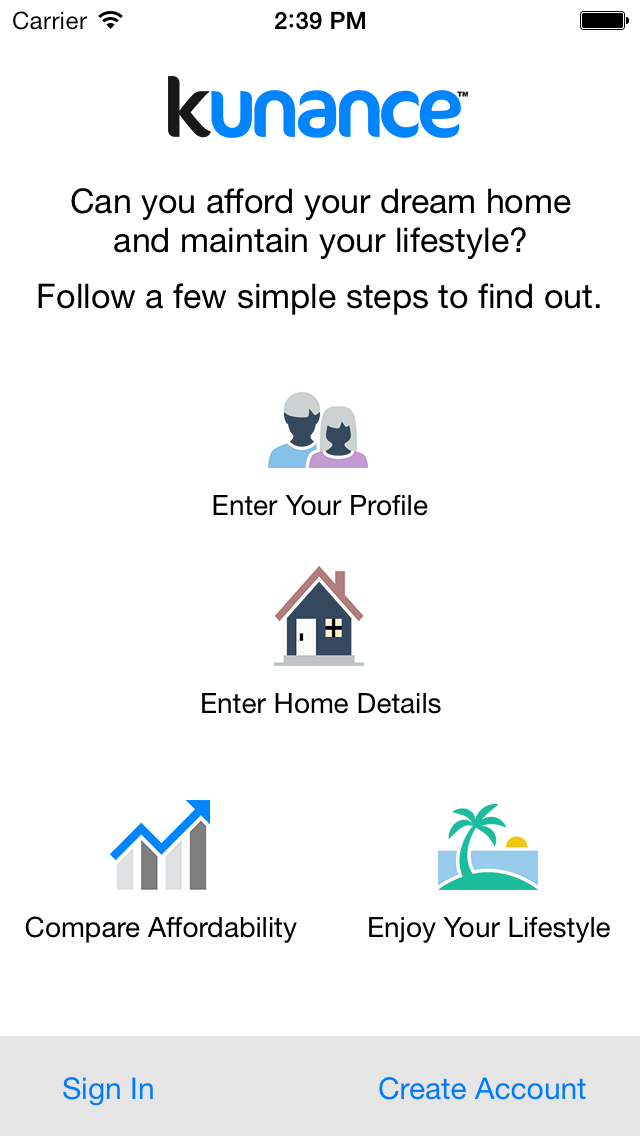
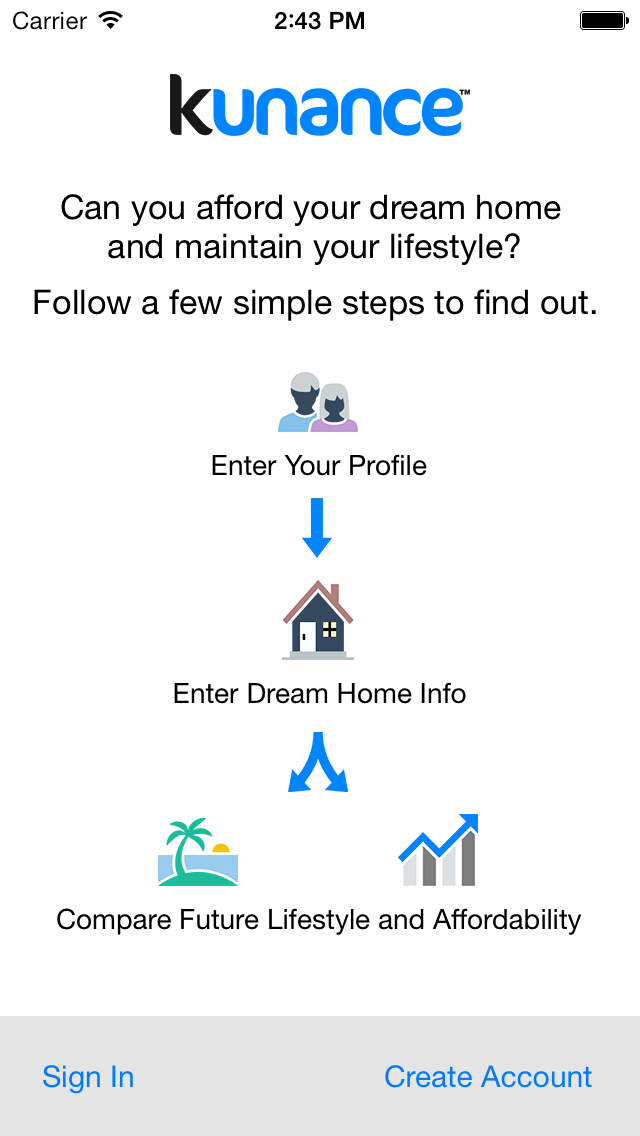
updated intro screen

diff --git a/kcat/kcat/AppDelegate.m b/kcat/kcat/AppDelegate.m
@@ -18,7 +18,7 @@
     self.window.backgroundColor = [UIColor whiteColor];
     UIViewController* controller = [[UIViewController alloc] init];
 
-    UIView *firstViewUIView = [[[NSBundle mainBundle] loadNibNamed:@"dashboard-noinfo"
+    UIView *firstViewUIView = [[[NSBundle mainBundle] loadNibNamed:@"kcatintro"
                                                              owner:self options:nil] objectAtIndex:0];
     [controller.view addSubview:firstViewUIView];
 
